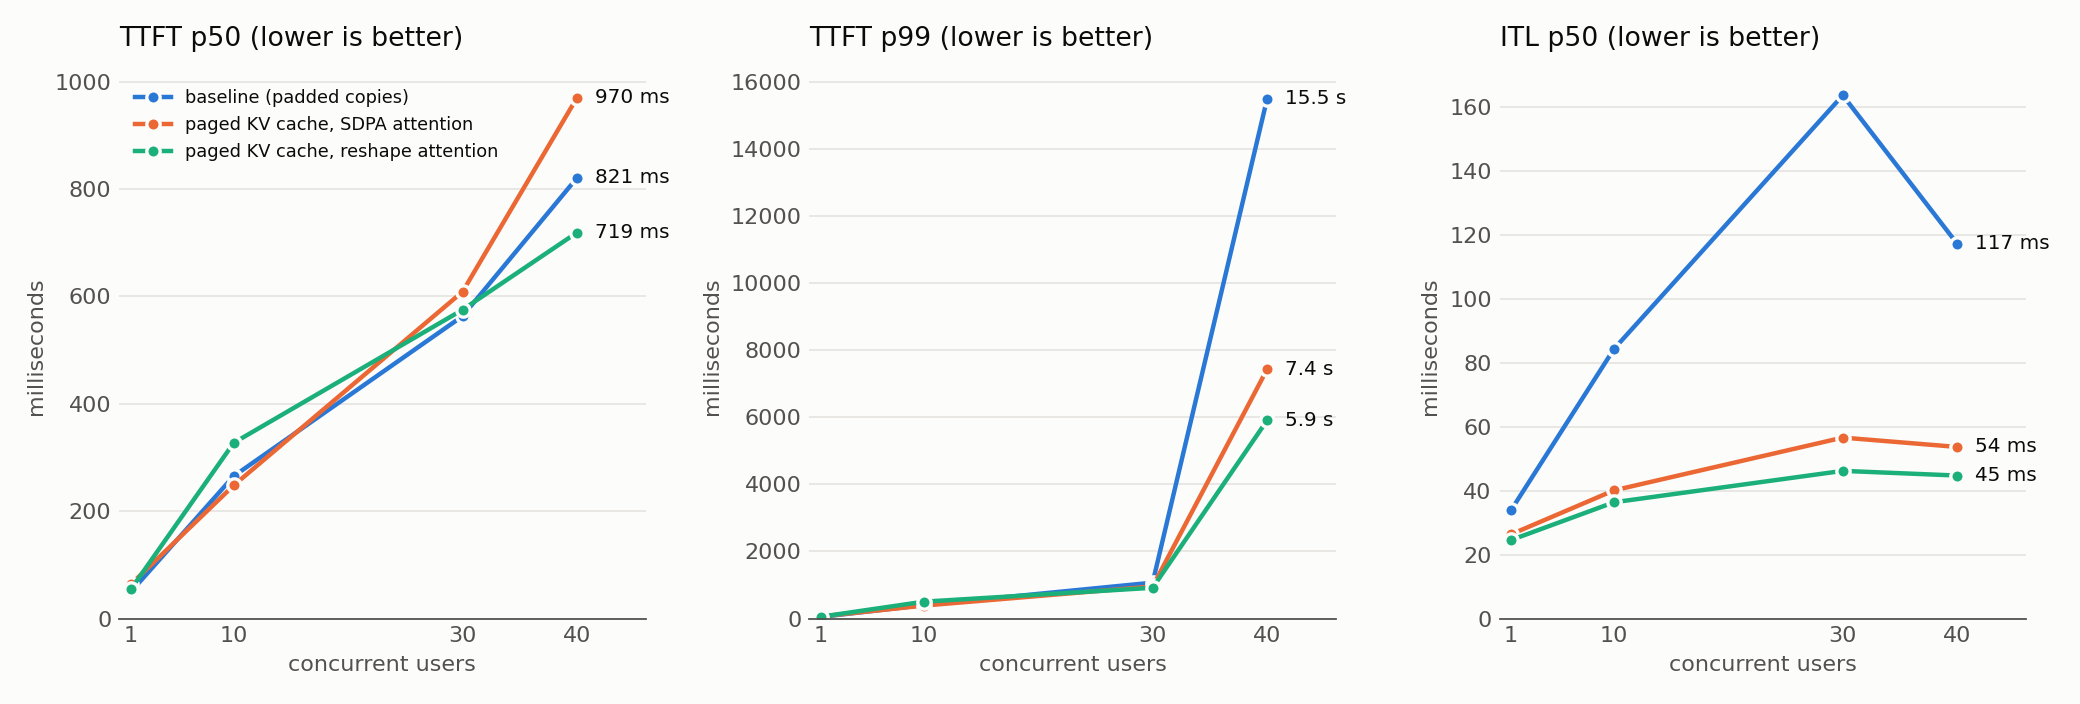
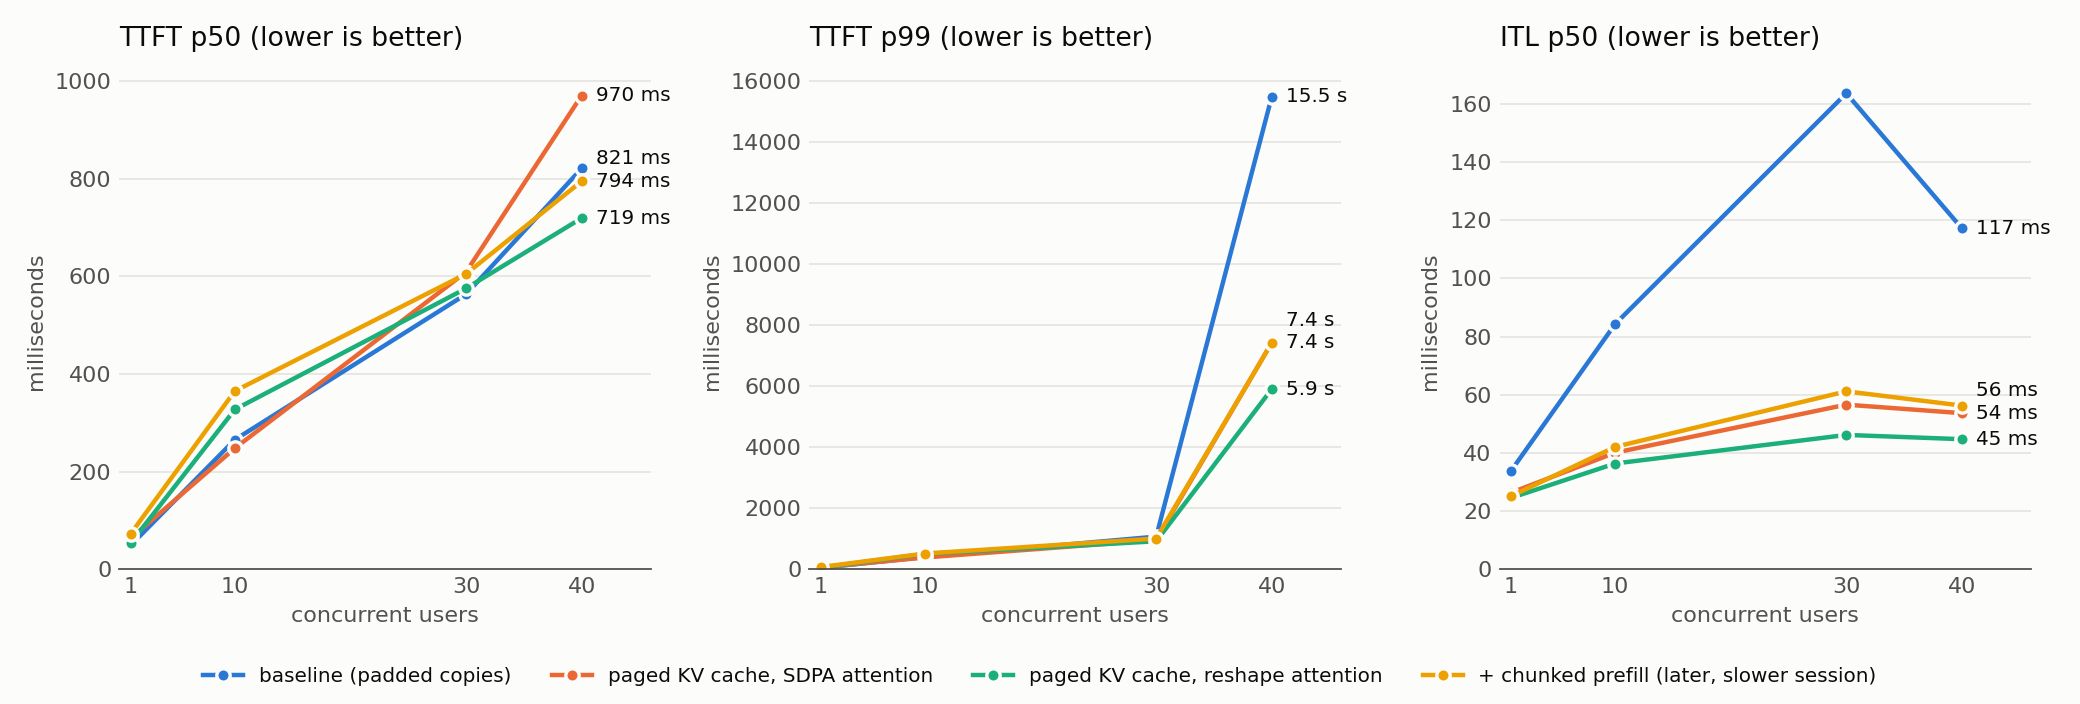
add chunked prefill to the graphs and readme

diff --git a/plot.py b/plot.py
@@ -12,7 +12,10 @@ SURFACE, INK, INK_2, GRID = "#fcfcfb", "#0b0b0b", "#52514e", "#e6e5e1"
 SERIES = ["#2a78d6", "#eb6834", "#1baf7a", "#eda100"]
 RUNS = [("baseline-smollm2", "baseline (padded copies)"),
         ("paged-smollm2", "paged KV cache, SDPA attention"),
-        ("paged-matmul-smollm2", "paged KV cache, reshape attention")]
+        ("paged-matmul-smollm2", "paged KV cache, reshape attention"),
+        ("chunked-smollm2", "+ chunked prefill (later, slower session)")]
+CHUNK_RUNS = [("chunk-off-smollm2", "off"), ("chunk-256-smollm2", "256"), ("chunk-512-smollm2", "512"),
+              ("chunk-1024-smollm2", "1024")]
 
 
 def load(label):
@@ -42,25 +45,32 @@ def new_figure(width=8, height=4.6, columns=1):
 
 
 def lines(ax, key, unit_format, label_at=(40,)):
-    """One line per run against the number of users, with its value written at the chosen user counts."""
+    """One line per run against the number of users, with its value written at the chosen user counts, labels kept apart."""
+    labels = []
     for colour, (label, name) in zip(SERIES, RUNS):
         rows = load(label)
         users, values = [r["users"] for r in rows], [r[key] for r in rows]
         ax.plot(users, values, color=colour, linewidth=2, marker="o", markersize=6,
                 markeredgecolor=SURFACE, markeredgewidth=1.5, label=name)
-        for u, value in zip(users, values):
-            if u in label_at:
-                ax.annotate(unit_format(value), (u, value), xytext=(8, 0), textcoords="offset points",
-                            va="center", color=INK, fontsize=9)
+        labels += [(u, value) for u, value in zip(users, values) if u in label_at]
     ax.set_xticks([1, 10, 30, 40])
     ax.set_xlim(0, 46)
     ax.set_ylim(bottom=0)
+    top = ax.get_ylim()[1]
+    for u in label_at:
+        placed = []
+        for value in sorted(v for x, v in labels if x == u):
+            y = max([value] + [p + top * 0.045 for p in placed[-1:]])
+            placed.append(y)
+            ax.annotate(unit_format(value), (u, value), xytext=(u + 1.2, y), textcoords="data",
+                        va="center", color=INK, fontsize=9)
 
 
 def save(fig, name):
     """Write the figure as a PNG into docs/."""
     DOCS.mkdir(exist_ok=True)
-    fig.tight_layout()
+    if not fig.legends:
+        fig.tight_layout()
     fig.savefig(DOCS / name, dpi=160, facecolor=SURFACE)
     plt.close(fig)
     print(f"saved docs/{name}")
@@ -82,7 +92,9 @@ def latency():
                               ("TTFT p50", "TTFT p99", "ITL p50")):
         lines(ax, key, lambda v: f"{v / 1000:.1f} s" if v >= 1000 else f"{v:.0f} ms")
         style(ax, f"{title} (lower is better)", "milliseconds", "concurrent users")
-    axes[0].legend(frameon=False, labelcolor=INK, loc="upper left", fontsize=8)
+    handles, names = axes[0].get_legend_handles_labels()
+    fig.legend(handles, names, frameon=False, labelcolor=INK, loc="lower center", ncol=4, fontsize=9)
+    fig.tight_layout(rect=(0, 0.07, 1, 1))
     save(fig, "latency.png")
 
 
@@ -113,6 +125,25 @@ def round_breakdown():
     save(fig, "round.png")
 
 
+def chunk_budgets():
+    """Late long prompts arriving while others decode: the early users' worst stall and the late users' wait, per prefill budget."""
+    rows = [(name, json.loads((RESULTS / f"{label}.json").read_text())["summary"][0]) for label, name in CHUNK_RUNS]
+    fig, axes = new_figure(width=11, height=4.2, columns=2)
+    panels = ((axes[0], "early", "itl_max_ms", "Longest stall for users already decoding", SERIES[0]),
+              (axes[1], "late", "ttft_p50_ms", "TTFT p50 for the late long prompts", SERIES[1]))
+    for ax, group, key, title, colour in panels:
+        values = [row[group][key] for _, row in rows]
+        bars = ax.bar(range(len(rows)), values, width=0.55, color=colour, edgecolor=SURFACE, linewidth=2)
+        for bar, value in zip(bars, values):
+            ax.annotate(f"{value / 1000:.1f} s" if value >= 1000 else f"{value:.0f} ms",
+                        (bar.get_x() + bar.get_width() / 2, value), xytext=(0, 4), textcoords="offset points",
+                        ha="center", color=INK, fontsize=9)
+        ax.set_xticks(range(len(rows)))
+        ax.set_xticklabels([name for name, _ in rows])
+        style(ax, f"{title} (lower is better)", "milliseconds", "prefill budget per round (tokens)")
+    save(fig, "chunked.png")
+
+
 def prefix():
     """TTFT with a shared 500-token system prompt, prefix caching off against on."""
     off, on = load("prefix-off-smollm2"), load("prefix-on-smollm2")
@@ -140,6 +171,7 @@ def main():
     throughput()
     latency()
     round_breakdown()
+    chunk_budgets()
     prefix()
 
 

diff --git a/README.md b/README.md
@@ -11,7 +11,9 @@ building the core ideas and measuring each one:
 - a **paged KV cache**: one shared pool of 16-token blocks, a block table per
   user, nothing re-padded or copied between steps;
 - **prefix caching**: users whose prompts start the same share those blocks and
-  skip prefilling them.
+  skip prefilling them;
+- **chunked prefill**: long prompts are read a slice per round, so users who
+  are already generating keep getting tokens.
 
 Every change is measured against a **baseline server** (`baseline_server.py`,
 kept unchanged so it can be re-run) that keeps a separate KV cache per user and
@@ -30,10 +32,16 @@ tokens, at most 30 users decoding at once.
 | Throughput, 1 user | 28 tok/s | **38 tok/s** | 1.4× |
 | TTFT p99, 40 users (10 wait for a seat) | 15.5 s | **5.9 s** | 2.6× smaller |
 | TTFT p50, 30 users sharing a 500-token prompt | 2.4 s (caching off) | **0.70 s** (caching on) | 3.4× smaller |
+| Longest stall for 20 decoding users when 10 long prompts arrive | 3.2 s (chunking off) | **0.70 s** (512-token chunks) | 4.5× shorter |
 
 ![Total throughput against users](docs/throughput.png)
 
 ![TTFT and ITL against users](docs/latency.png)
+
+The yellow line (chunked prefill) was measured in a later session in which the
+Mac ran slower overall: in that same session, the server with chunking turned
+off reached 418 tok/s at 30 users, against 411 with it on. On these short
+prompts chunking changes nothing; the gap to the green line is the session.
 
 ## How it works
 
@@ -46,8 +54,9 @@ tokens, at most 30 users decoding at once.
                                                  2. seat users from the front of the line while a seat
                                                     and enough blocks for prompt + max_tokens are free;
                                                     reuse cached blocks for a known prompt prefix
-                                                 3. prefill each new user (only the uncached part)
-                                                 4. decode one token for every seated user
+                                                 3. prefill up to 512 prompt tokens: half-read prompts
+                                                    first, then new users (only the uncached part)
+                                                 4. decode one token for every user whose prompt is read
  client ◀──SSE, one token each── handler ◀──── tokens through an asyncio.Queue
 
  inside one decode step, for each of the 30 layers:
@@ -95,13 +104,15 @@ curl -N -X POST localhost:8080/v1/completions -H "Content-Type: application/json
 
 `python3 baseline_server.py` runs the baseline instead, on the same port, so
 run only one at a time. `NANO_PREFIX_CACHE=0 python3 server.py` turns prefix
-caching off.
+caching off, and `NANO_PREFILL_CHUNK=0` turns chunked prefill off (any other
+number sets the prompt tokens read per round; the default is 512).
 
 Load test (the server must be running), then redraw the charts:
 
 ```
 nice -n 10 python3 bench.py --label my-run --users 1 10 30 40
 nice -n 10 python3 bench.py --label shared --users 1 10 30 --system-repeats 35
+nice -n 10 python3 bench.py --label late --users 20 --max-tokens 200 --late-users 10 --late-repeats 60
 python3 plot.py
 ```
 
@@ -111,7 +122,7 @@ Tests, each printing what it compares:
 python3 test_blocks.py      # allocator: toy pool, sharing, reviving, eviction
 python3 test_kv_pool.py     # write path: values read back exactly through tables
 python3 test_forward.py     # our forward pass against Hugging Face, piece by piece
-python3 test_paged.py       # paged prefill/decode/prefix against Hugging Face
+python3 test_paged.py       # paged prefill/decode/prefix/chunks against Hugging Face
 python3 test_engine.py      # the server's engine: greedy answers equal HF generate
 ```
 
@@ -186,6 +197,32 @@ cached full blocks and prefills only the last block and their question.
 | 10 | 842 ms | 400 ms | 1.56 s | 764 ms |
 | 30 | 2.39 s | **701 ms** | 4.51 s | **1.22 s** |
 
+### Chunked prefill
+
+![Chunked prefill: stall against wait](docs/chunked.png)
+
+The test: 20 users start generating 200 tokens each; 2 s later, 10 more users
+arrive, each with their own 904-token prompt (no shared prefix). Without
+chunking, the round that reads those prompts reads all 9,040 tokens before
+anyone gets another token.
+
+| Prompt tokens read per round | Longest stall (early users) | ITL p99 (early users) | TTFT p50 (late users) | TTFT p99 (late users) |
+|---|---|---|---|---|
+| no limit | 3,157 ms | 469 ms | 1.5 s | 2.8 s |
+| 256 | 780 ms | 676 ms | 7.0 s | 15.1 s |
+| **512 (default)** | **699 ms** | 599 ms | 4.0 s | 8.7 s |
+| 1,024 | 799 ms | 772 ms | 3.1 s | 6.0 s |
+
+- **It is a trade, not a free win.** Chunking cuts the worst freeze for users
+  who are already reading by 4.5×, but the people with long prompts wait longer
+  for their first token, because every round also has to decode all 20 early
+  users while moving the long prompts forward only a slice.
+- **The stall does not shrink below ~700 ms** even with small slices: each
+  round also decodes 30 users whose contexts reach 900 tokens, and that decode
+  step (attention over users × context) is now the bigger part of a round.
+- **The ITL p99 got worse** (469 → 599 ms) while the single worst gap got much
+  better: chunking spreads one 3-second freeze over many slower rounds.
+
 ## Correctness
 
 Speed means nothing if the answers change, so every step has a test that
@@ -196,7 +233,8 @@ compares against Hugging Face with sampling turned off:
 | `test_forward.py` | Each piece of our model (RMSNorm, RoPE, attention, MLP) and the full logits equal HF's | 0 difference on CPU, ≤ 2.1e-5 on MPS |
 | `test_paged.py` | Paged prefill and decode, teacher-forced across block boundaries, 1 user and 4 users of different lengths (one joining late), with the pool **filled with garbage** first | Same tokens as HF everywhere, logits within 3.5e-4 |
 | `test_paged.py` (prefix) | A user reusing another user's cached blocks still matches HF | Same tokens, logits within 9e-5 |
-| `test_engine.py` | The server's engine gives exactly HF `generate`'s greedy answers, with a big pool and with a pool so small users must wait | 7 of 7 prompts identical |
+| `test_paged.py` (chunks) | A 90-token prompt read 7 tokens at a time, across every block boundary, matches HF at the end of every chunk and through decode | Same tokens, logits within 1.1e-4 |
+| `test_engine.py` | The server's engine gives exactly HF `generate`'s greedy answers, with a big pool, a pool so small users must wait, 8-token chunks and 512-token chunks | 7 of 7 prompts identical in all four |
 | `test_blocks.py`, `test_kv_pool.py` | Tables, free lists and reference counts after every step; values read back exactly | All asserts pass |
 
 Two lessons from testing:
@@ -231,6 +269,8 @@ Two lessons from testing:
 | 17 | What happens to a cached block when its users leave | It goes back to the free list **but keeps its fingerprint**, and is revived if someone asks for it before it is handed out again | Free memory doubles as a cache at no cost; reuse order is oldest freed first |
 | 18 | When users arrive together | **Seat and prefill them one at a time** | Otherwise everyone arriving in the same moment would look up the cache before anyone had filled it, and nobody would share |
 | 19 | Seats | **Keep 30** | Not re-measured for the paged engine; 30 users fit easily in the pool, and keeping the cap makes every before/after comparison fair |
+| 20 | How chunked prefill shares a round | A **budget of prompt tokens per round**; half-read prompts go first, and new users are seated only while budget is left; each chunk's full blocks are added to the prefix cache right away | Half-read prompts first means nobody is overtaken forever. Registering after every chunk keeps prefix caching working: a user seated in a later round reuses the blocks the first user has already read |
+| 21 | Budget size | **512 tokens** (setting `NANO_PREFILL_CHUNK`, 0 = no limit) | Measured 256, 512 and 1,024: 512 gave the shortest worst stall (699 ms) and the best ITL p99 of the three, with a middle cost to the late users' TTFT |
 
 ## Limits
 
@@ -239,8 +279,11 @@ Two lessons from testing:
 - The paged attention is a gather plus plain PyTorch operations, not a fused
   GPU kernel, so the gather is still a copy and long contexts cost about
   13–14 ms per 1,000 user-tokens per step.
-- New users are prefilled one at a time, so TTFT grows with the number of users
-  arriving together (575 ms p50 for 30 at once).
+- New users are prefilled one at a time (one forward pass each, even inside the
+  same round), so TTFT grows with the number of users arriving together
+  (575 ms p50 for 30 at once).
+- Chunked prefill trades the late users' TTFT for the early users' smoothness;
+  the budget is fixed, not adapted to the load.
 - Reserving `prompt + max_tokens` at the door wastes blocks when answers stop
   early; there is no preemption.
 - Measurements on MPS vary between runs (the same decode step measured 98 ms
